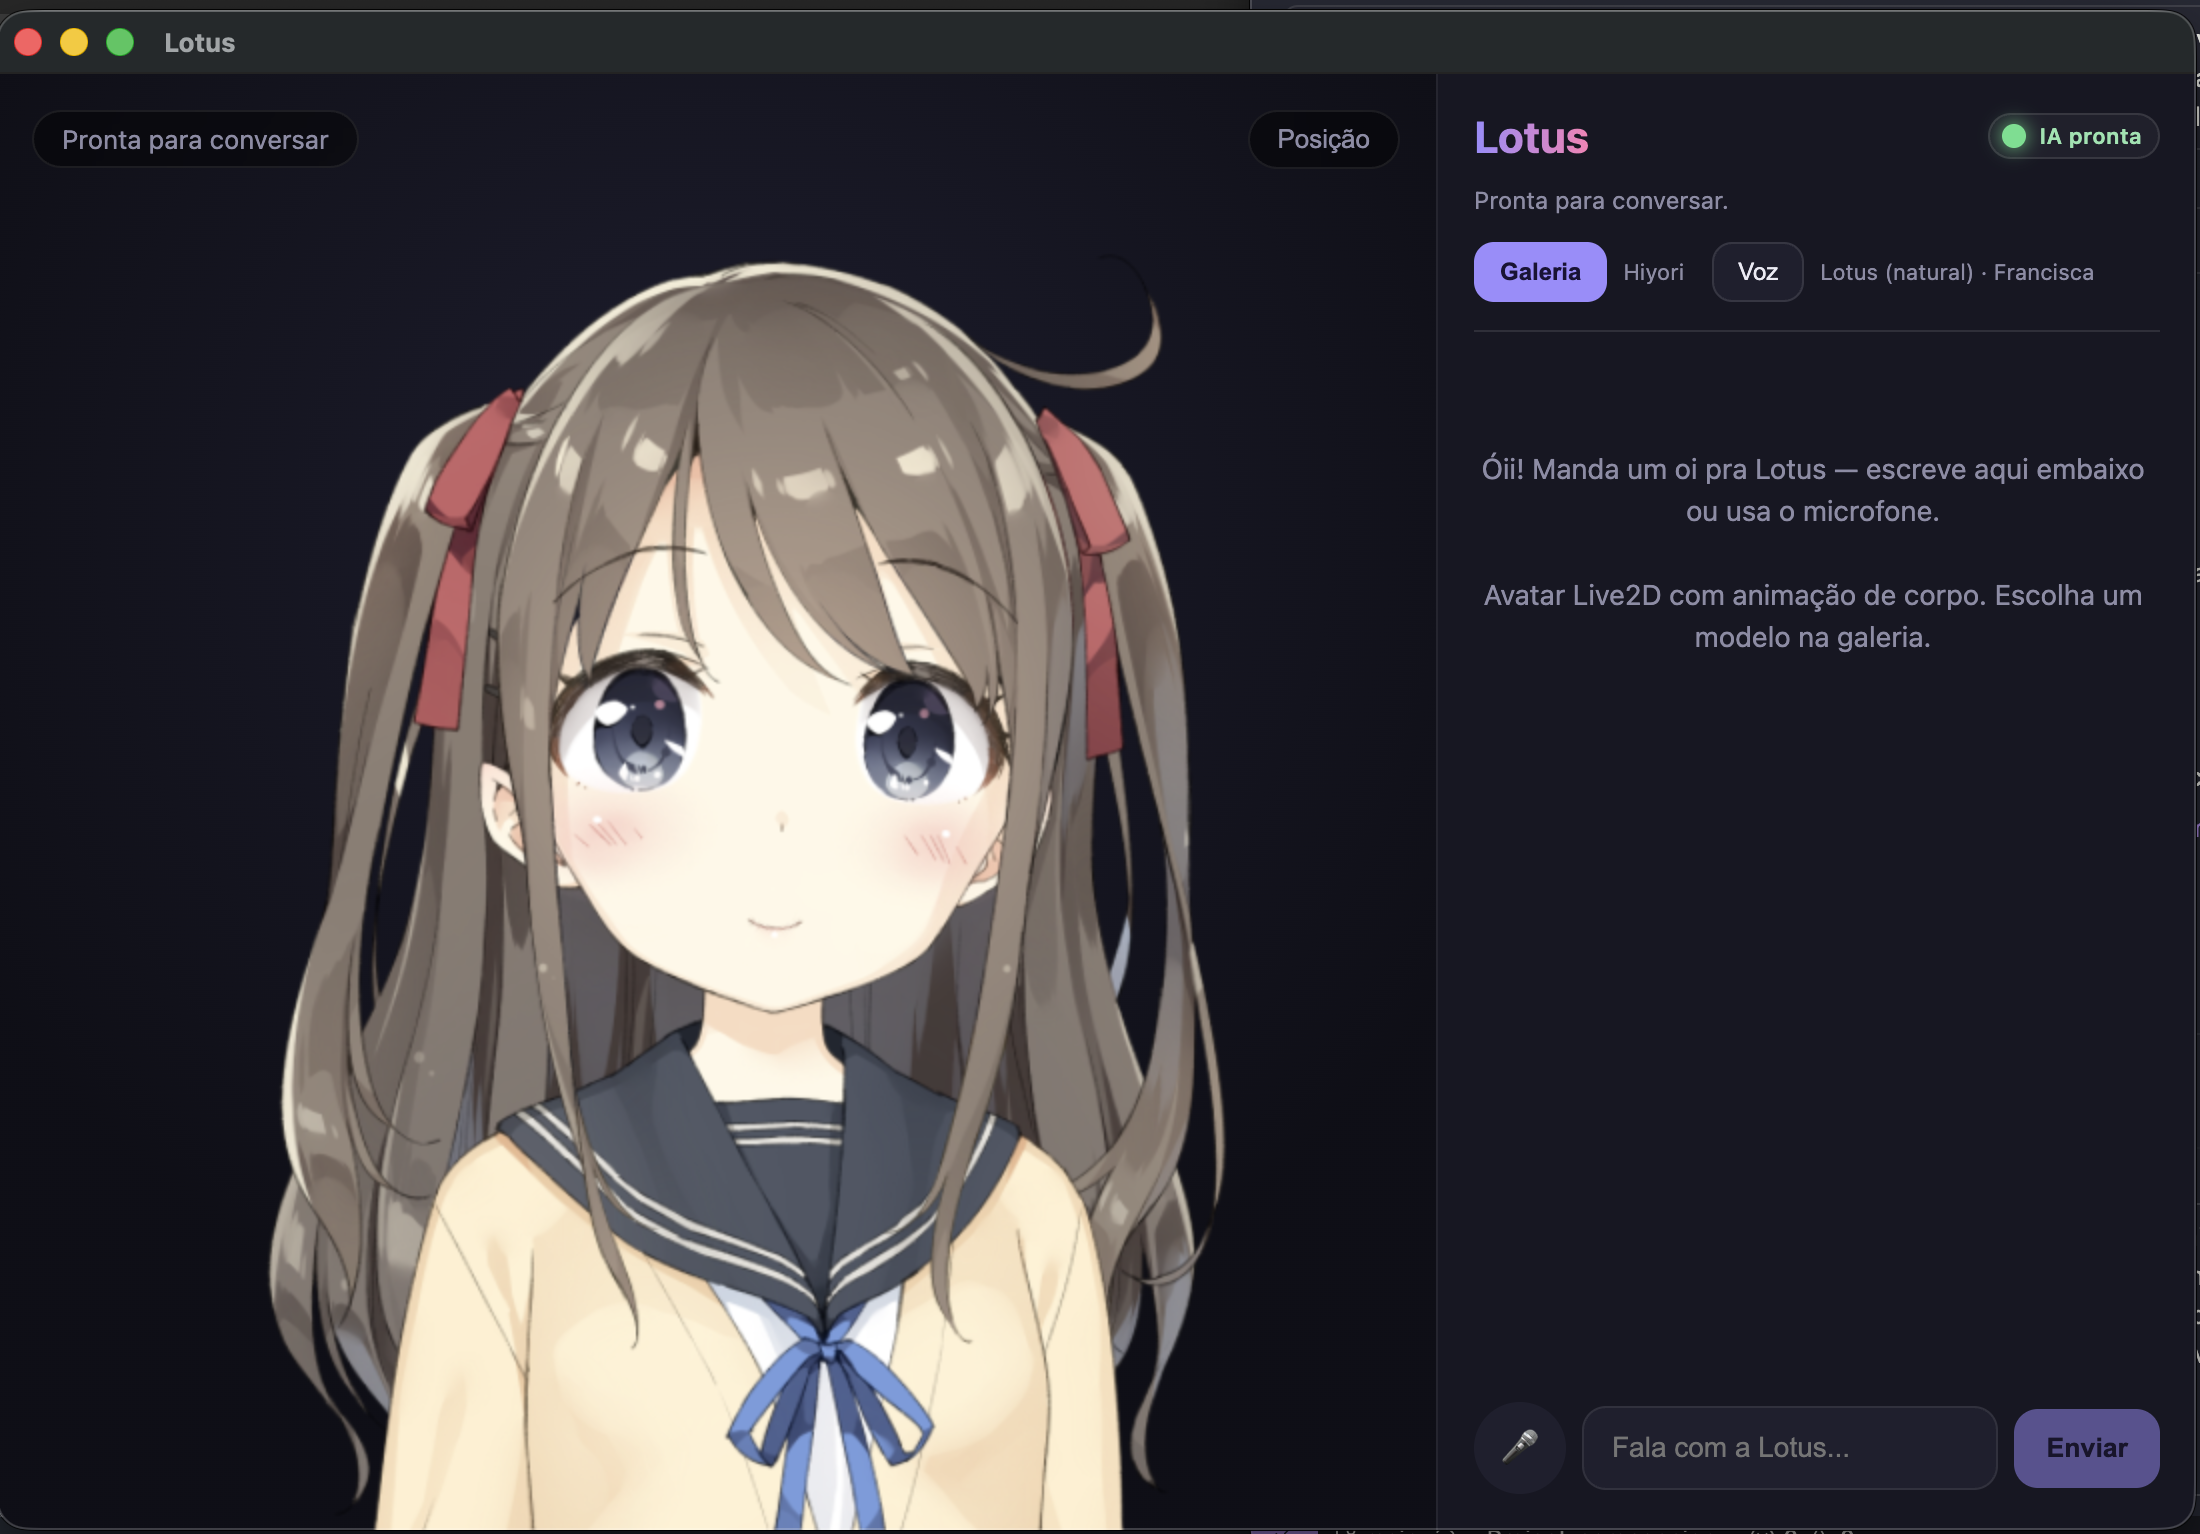
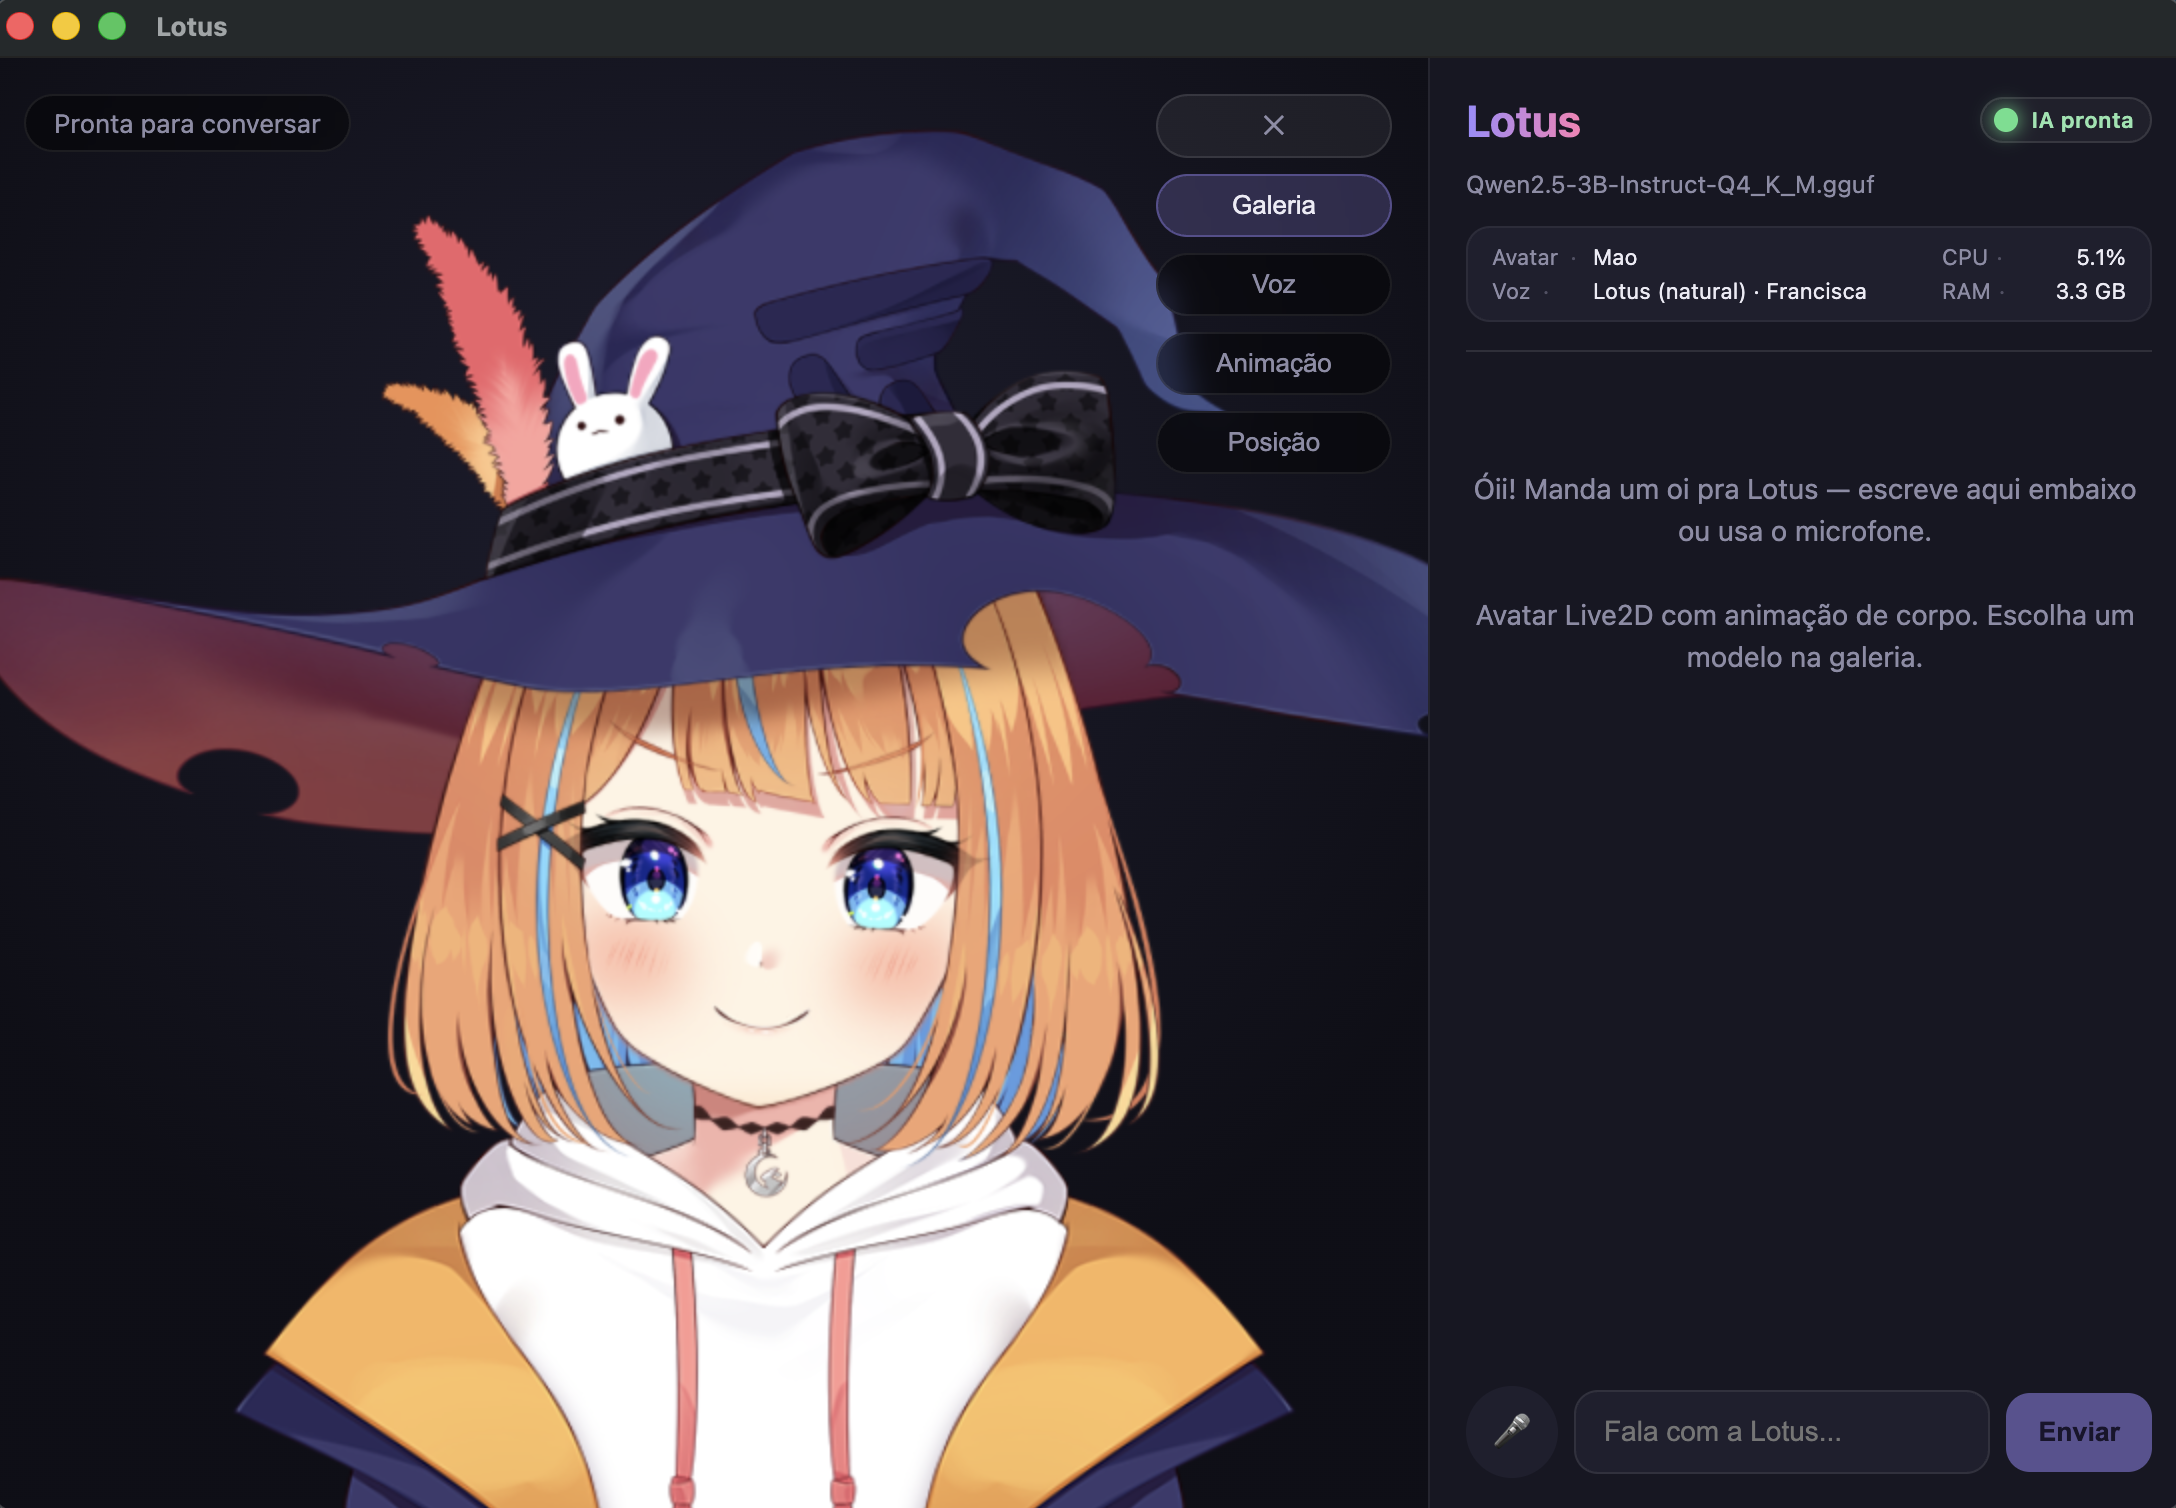
Atualizar README e screenshot com a nova interface da Lotus.

diff --git a/README.md b/README.md
@@ -8,7 +8,7 @@
 
 Companion de desktop com **IA local**: avatar **Live2D** animado, chat por texto ou microfone, voz feminina em pt-BR e lip-sync. Roda no seu computador (Windows e macOS).
 
-![Tela principal — avatar Live2D, chat e controles de galeria/voz](Screenshot/01.png)
+![Tela principal — avatar Live2D, chat, menu de ferramentas e painel de status](Screenshot/01.png)
 
 ## Funcionalidades
 
@@ -16,7 +16,12 @@ Companion de desktop com **IA local**: avatar **Live2D** animado, chat por texto
 - **Cérebro local** — LLM em GGUF (`node-llama-cpp`), com busca na web quando precisa de fatos atuais
 - **Voz da Lotus** — perfil *Lotus (natural)* via Edge TTS (Francisca / Thalita); preview anime opcional com GPT-SoVITS
 - **Lip-sync e corpo** — boca sincronizada com o áudio; idle e gestos nos modelos oficiais
-- **Posição** — ajuste onde o avatar aparece na tela (persistido)
+- **Menu de ferramentas** — botão ⚙ no canto da stage abre **Galeria**, **Voz**, **Animação** e **Posição** (painéis flutuantes abaixo do menu)
+- **Animação / olhar** — em *Animação*, escolha no máximo uma opção:
+  - **Seguir o mouse**
+  - **Olhar para o chat** (enquanto digita; volta ao neutro ao enviar)
+  - **Olhar para você** — rastreamento facial pela câmera (MediaPipe, processamento local)
+- **Painel lateral** — avatar e voz ativos, uso de **CPU/RAM** (Lotus ou sistema) e indicador **IA pronta**
 
 ## Começar
 
@@ -27,7 +32,7 @@ npm run setup:live2d    # Hiyori, Mao e Cubism Core
 npm run dev
 ```
 
-Na primeira execução, aguarde o indicador **IA pronta** (bolinha verde) antes de conversar. Passe o mouse sobre o chip para ver qual modelo está carregado.
+Na primeira execução, aguarde o indicador **IA pronta** (bolinha verde) antes de conversar. Passe o mouse sobre o chip para ver detalhes do modelo carregado.
 
 ### Voz anime (opcional)
 
@@ -63,7 +68,7 @@ npm run dist:mac   # macOS
 
 ```
 src/main/       Electron, LLM, TTS, STT, IPC
-src/renderer/   React, Live2D, chat e áudio
+src/renderer/   React, Live2D, chat, face tracking e áudio
 src/shared/     Tipos e contratos IPC
 models/         LLM, whisper e voz (não versionados)
 Screenshot/     Capturas para documentação
@@ -72,5 +77,6 @@ Screenshot/     Capturas para documentação
 ## Observações
 
 - **Voz Edge TTS** — melhor qualidade online; offline cai para voz do sistema (Web Speech).
+- **Olhar pela câmera** — exige permissão de câmera; nenhum vídeo é enviado para a internet.
 - **Microfone / STT** — whisper em integração; preferir texto se a transcrição falhar no seu ambiente.
 - Modelos Live2D oficiais são material gratuito Live2D (uso não comercial). Ver licença de cada modelo externo.